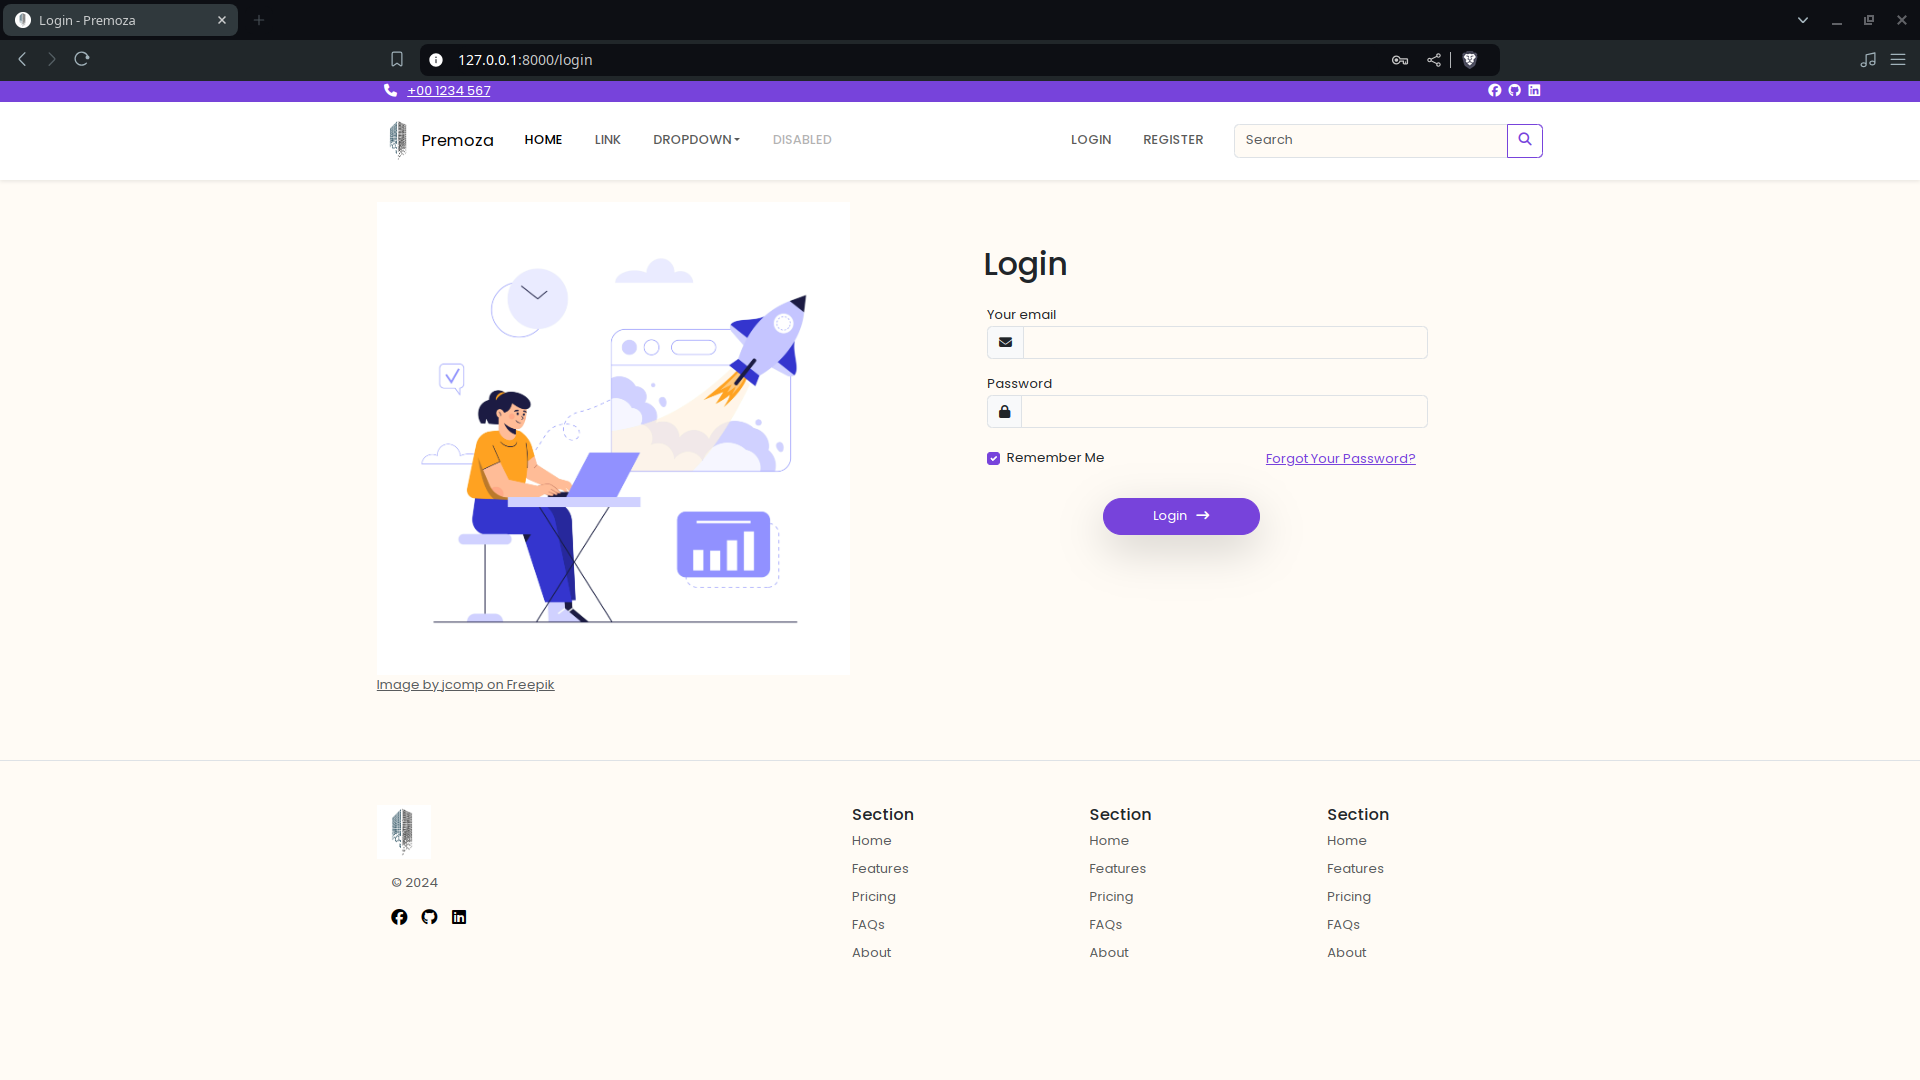
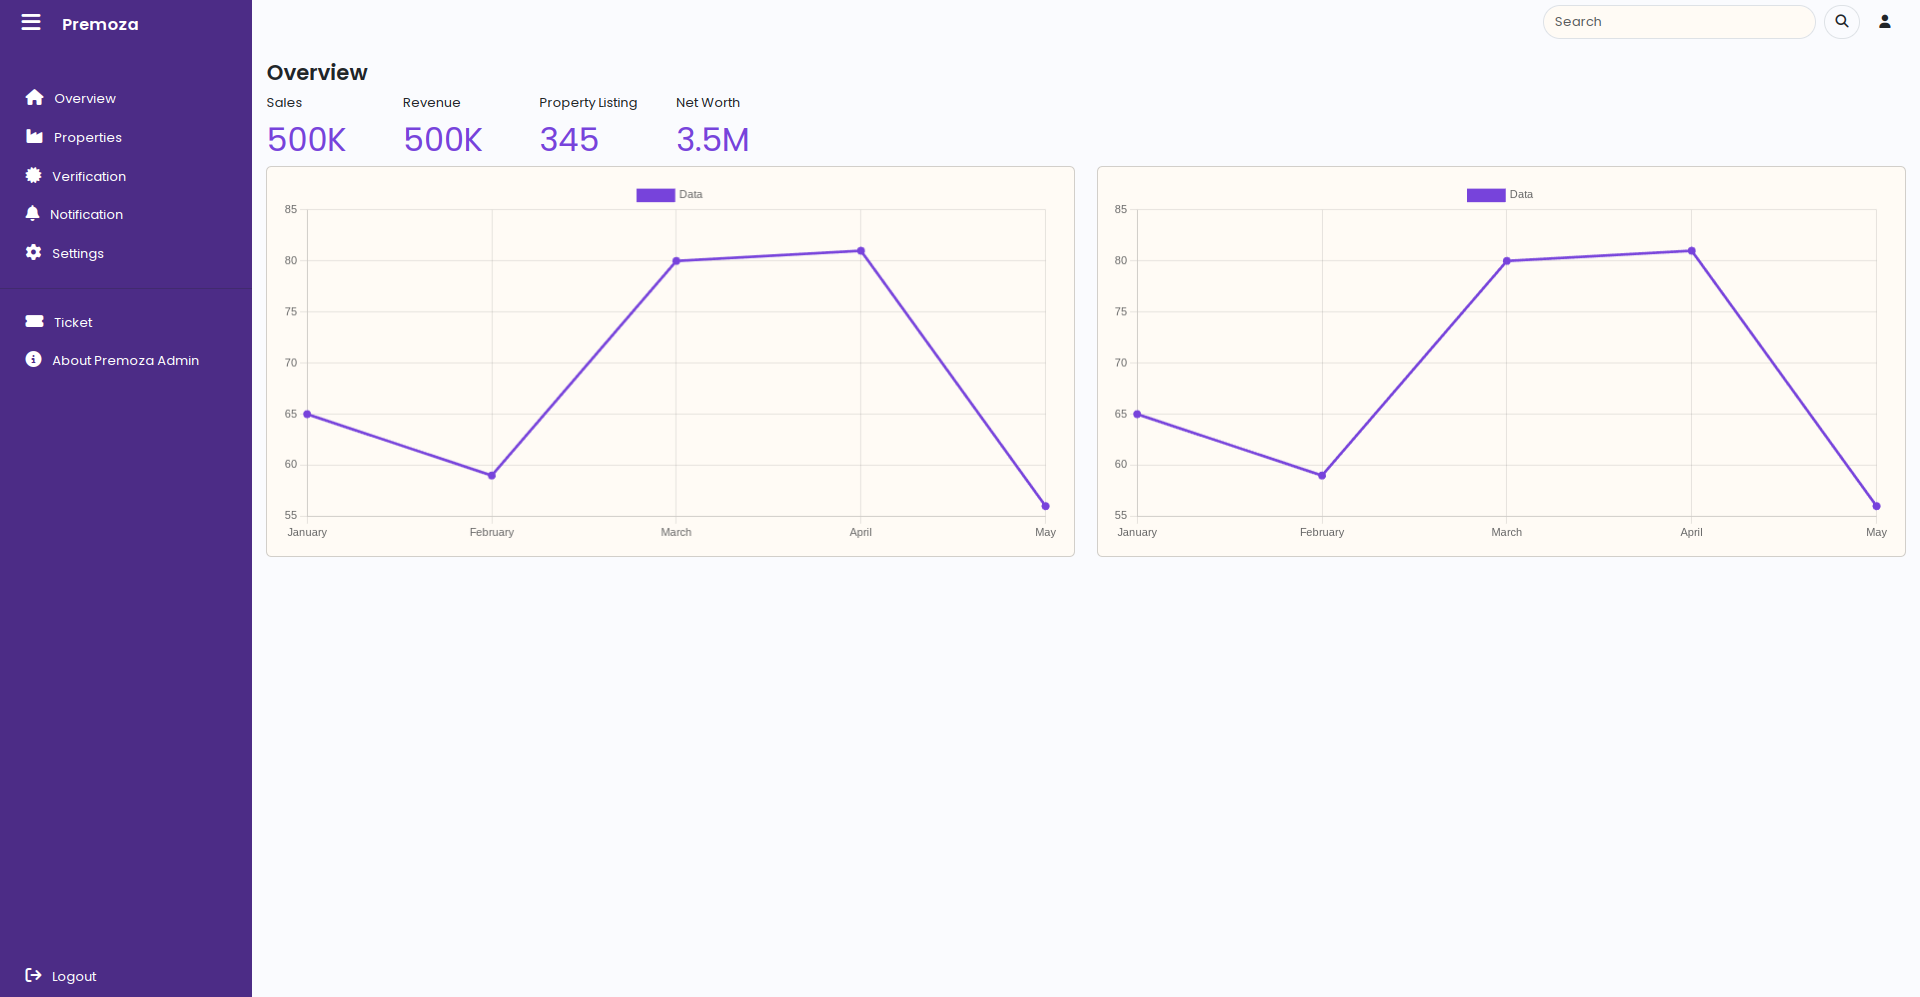
bug fixes and improvements

diff --git a/resources/js/app.js b/resources/js/app.js
@@ -1,43 +1,67 @@
-import './bootstrap';
+import "./bootstrap";
 
-const hamBurger = document.querySelector(".toggle-btn");
+(function () {
+    const hamBurger = document.querySelector(".toggle-btn");
 
-const sidebar = document.querySelector("#sidebar");
+    const sidebar = document.querySelector("#sidebar");
 
-function handleSidebar() {
-  if (window.innerWidth <= 750) {
-    sidebar.classList.remove("expand");
-  } else {
-    sidebar.classList.add("expand");
-  }
-}
+    function handleSidebar() {
+        if (window.innerWidth <= 800) {
+            sidebar.classList.remove("expand");
+        } else {
+            sidebar.classList.add("expand");
+        }
+    }
 
-hamBurger.addEventListener("click", function () {
-  sidebar.classList.toggle("expand");
-  this.classList.toggle('rotate-vertical');
-});
+    hamBurger.addEventListener("click", function () {
+        sidebar.classList.toggle("expand");
+        this.classList.toggle("rotate-vertical");
+    });
 
-window.addEventListener("resize", handleSidebar);
+    window.addEventListener("resize", handleSidebar);
 
-handleSidebar();
-var ctx = document.getElementById('barChart').getContext('2d');
-        var myChart = new Chart(ctx, {
-            type: 'bar',
+    handleSidebar();
+
+    const sales = document.getElementById("sales").getContext("2d");
+    sales.canvas.width = 400;
+    sales.canvas.height = 400;
+    createChart(sales, "line", ["January", "February", "March", "April", "May"], "Data", [65, 59, 80, 81, 56]);
+
+    const revenue = document.getElementById("revenue").getContext("2d");
+    revenue.canvas.width = 400;
+    revenue.canvas.height = 400;
+    createChart(revenue, "line", ["January", "February", "March", "April", "May"], "Data", [65, 59, 80, 81, 56]);
+
+    const test = document.getElementById("test").getContext("2d");
+    test.canvas.width = 400;
+    test.canvas.height = 400;
+    createChart(test, "line", ["January", "February", "March", "April", "May"], "Data", [65, 59, 80, 81, 56]);
+
+    const test1 = document.getElementById("test1").getContext("2d");
+    test1.canvas.width = 400;
+    test1.canvas.height = 400;
+    createChart(test1, "line", ["January", "February", "March", "April", "May"], "Data", [65, 59, 80, 81, 56]);
+
+
+    function createChart(ctx, type, labels, label, data) {
+        new Chart(ctx, {
+            type: type,
             data: {
-                labels: ['January', 'February', 'March', 'April', 'May'],
-                datasets: [{
-                    label: 'Data',
-                    data: [65, 59, 80, 81, 56],
-                    backgroundColor: 'rgba(75, 192, 192, 0.2)',
-                    borderColor: 'rgba(75, 192, 192, 1)',
-                    borderWidth: 1
-                }]
+                labels: labels,
+                datasets: [
+                    {
+                        label: label,
+                        data: data,
+                        backgroundColor: "#7743DB",
+                        borderColor: "#7743DB",
+                        borderWidth: 3,
+                    },
+                ],
             },
             options: {
-                scales: {
-                    y: {
-                        beginAtZero: true
-                    }
-                }
-            }
+                maintainAspectRatio: false,
+                responsive: true,
+            },
         });
+    }
+})();

diff --git a/resources/js/bootstrap.js b/resources/js/bootstrap.js
@@ -1,4 +1,4 @@
-import 'bootstrap';
+import "bootstrap";
 
 /**
  * We'll load the axios HTTP library which allows us to easily issue requests
@@ -6,7 +6,7 @@ import 'bootstrap';
  * CSRF token as a header based on the value of the "XSRF" token cookie.
  */
 
-import axios from 'axios';
+import axios from "axios";
 window.axios = axios;
 
-window.axios.defaults.headers.common['X-Requested-With'] = 'XMLHttpRequest';
+window.axios.defaults.headers.common["X-Requested-With"] = "XMLHttpRequest";

diff --git a/resources/sass/app.scss b/resources/sass/app.scss
@@ -167,6 +167,7 @@ a.sidebar-link:hover {
     transition: all .2s ease-out;
 }
 
+/* for hamburger menu */
 .rotate-vertical {
     transform: rotate(90deg);
     transform-origin: center;

diff --git a/resources/views/layouts/default.blade.php b/resources/views/layouts/default.blade.php
@@ -1,0 +1,54 @@
+<!doctype html>
+<html lang="{{ str_replace('_', '-', app()->getLocale()) }}">
+
+<head>
+    <meta charset="utf-8">
+    <meta http-equiv="X-UA-Compatible" content="IE=edge">
+    <meta name="viewport" content="width=device-width, initial-scale=1">
+    <meta name="robots" content="index, follow">
+
+    @php
+    $canonicalUrl = url()->current();
+    @endphp
+    <link rel="canonical" href="{{ $canonicalUrl }}">
+
+    <meta name="csrf-token" content="{{ csrf_token() }}">
+
+    <title>@yield('pageTitle') - Premoza</title>
+
+    {{-- Icons --}}
+    <link rel="shortcut icon" href="/assets/premoza/premoza-icon-min-round.png">
+    <link rel="apple-touch-icon" href="/assets/premoza/premoza-icon-min-round.png">
+    <link rel="icon" href="/favicon.ico" type="image/x-icon">
+
+    {{-- OpenGraph --}}
+    <meta property="og:locale" content="en_US" />
+    <meta property="og:type" content="website" />
+    <meta property="og:title" content="@yield('pageTitle') - Premoza" />
+    <meta property="og:url" content="{{ $canonicalUrl }}/" />
+    <meta property="og:site_name" content="Premoza" />
+    <meta name="twitter:card" content="summary_large_image" />
+
+    {{-- FontAwesome --}}
+    <link rel="stylesheet" href="/assets/font-awesome/css/fontawesome.min.css" />
+    <link rel="stylesheet" href="/assets/font-awesome/css/brands.min.css" />
+    <link rel="stylesheet" href="/assets/font-awesome/css/solid.min.css" />
+
+    {{-- Poppins Font --}}
+    <link rel="preconnect" href="https://fonts.googleapis.com">
+    <link rel="preconnect" href="https://fonts.gstatic.com" crossorigin>
+    <link href="https://fonts.googleapis.com/css2?family=Poppins:ital,wght@0,100;0,200;0,300;0,400;0,500;0,600;0,700;0,800;0,900;1,100;1,200;1,300;1,400;1,500;1,600;1,700;1,800;1,900&display=swap" rel="stylesheet">
+
+    {{-- Scripts --}}
+    @vite(['resources/sass/app.scss', 'resources/js/app.js'])
+</head>
+
+<body>
+    <div id="app">
+        @yield('content')
+
+    </div>
+
+</body>
+
+</html>

diff --git a/resources/views/index.blade.php b/resources/views/index.blade.php
@@ -3,5 +3,41 @@
 @section('pageTitle', 'Overview')
 
 @section('content')
-<canvas id="barChart"></canvas>
+<div>
+    <h1>Overview</h1>
+</div>
+<div class="row">
+    <div class="row mb-3 mb-md-0">
+        <div class="col col-lg-1">
+            <span class="d-block">Sales</span>
+            <span class="fs-1 text-primary">500K</span>
+        </div>
+        <div class="col col-lg-1">
+            <span class="d-block">Revenue</span>
+            <span class="fs-1 text-primary">500K</span>
+        </div>
+        <div class="col col-lg-1">
+            <span class="d-block">Property Listing</span>
+            <span class="fs-1 text-primary">345</span>
+        </div>
+        <div class="col col-lg-1">
+            <span class="d-block">Net Worth</span>
+            <span class="fs-1 text-primary">3.5M</span>
+        </div>
+    </div>
+    <div class="col-md-6 mb-3">
+        <div class="card">
+            <div class="card-body">
+                <canvas id="sales"></canvas>
+            </div>
+        </div>
+    </div>
+    <div class="col-md-6 mb-3">
+        <div class="card">
+            <div class="card-body">
+                <canvas id="revenue"></canvas>
+            </div>
+        </div>
+    </div>
+</div>
 @endsection

diff --git a/resources/views/layouts/sidebar.blade.php b/resources/views/layouts/sidebar.blade.php
@@ -66,21 +66,25 @@
         <hr>
         <li class="sidebar-item">
             <a href="#" class="sidebar-link">
-            <i class="fa-solid fa-ticket-simple"></i>
+                <i class="fa-solid fa-ticket-simple"></i>
                 <span>Ticket</span>
             </a>
         </li>
         <li class="sidebar-item">
             <a href="#" class="sidebar-link">
-            <i class="fa-solid fa-circle-info"></i>
+                <i class="fa-solid fa-circle-info"></i>
                 <span>About Premoza Admin</span>
             </a>
         </li>
     </ul>
     <div class="sidebar-footer">
-        <a href="#" class="sidebar-link">
+        <a href="{{ route('logout') }}" class="sidebar-link" onclick="event.preventDefault();
+                                                     document.getElementById('logout-form').submit();">
             <i class="fa-solid fa-arrow-right-from-bracket"></i>
             <span>Logout</span>
         </a>
     </div>
+    <form id="logout-form" action="{{ route('logout') }}" method="POST" class="d-none">
+        @csrf
+    </form>
 </aside>

diff --git a/routes/web.php b/routes/web.php
@@ -12,6 +12,6 @@ Route::get('/', function () {
 })
     ->middleware('auth');
 
-Auth::routes();
+Auth::routes(['register' => false]);
 
 Route::get('/profile', [App\Http\Controllers\ProfileController::class, 'index'])->name('profile');

diff --git a/resources/views/auth/passwords/confirm.blade.php b/resources/views/auth/passwords/confirm.blade.php
@@ -1,4 +1,4 @@
-@extends('layouts.app')
+@extends('layouts.default')
 
 @section('pageTitle', 'Confirm Password')
 

diff --git a/resources/views/auth/passwords/email.blade.php b/resources/views/auth/passwords/email.blade.php
@@ -1,4 +1,4 @@
-@extends('layouts.app')
+@extends('layouts.default')
 
 @section('pageTitle', 'Reset Password')
 

diff --git a/resources/views/auth/passwords/reset.blade.php b/resources/views/auth/passwords/reset.blade.php
@@ -1,4 +1,4 @@
-@extends('layouts.app')
+@extends('layouts.default')
 
 @section('pageTitle', 'Reset Password')
 

diff --git a/resources/views/auth/verify.blade.php b/resources/views/auth/verify.blade.php
@@ -1,4 +1,4 @@
-@extends('layouts.app')
+@extends('layouts.default')
 
 @section('pageTitle', 'Verify')
 

diff --git a/resources/views/auth/login.blade.php b/resources/views/auth/login.blade.php
@@ -1,4 +1,4 @@
-@extends('layouts.app')
+@extends('layouts.default')
 
 @section('pageTitle', 'Login')
 
